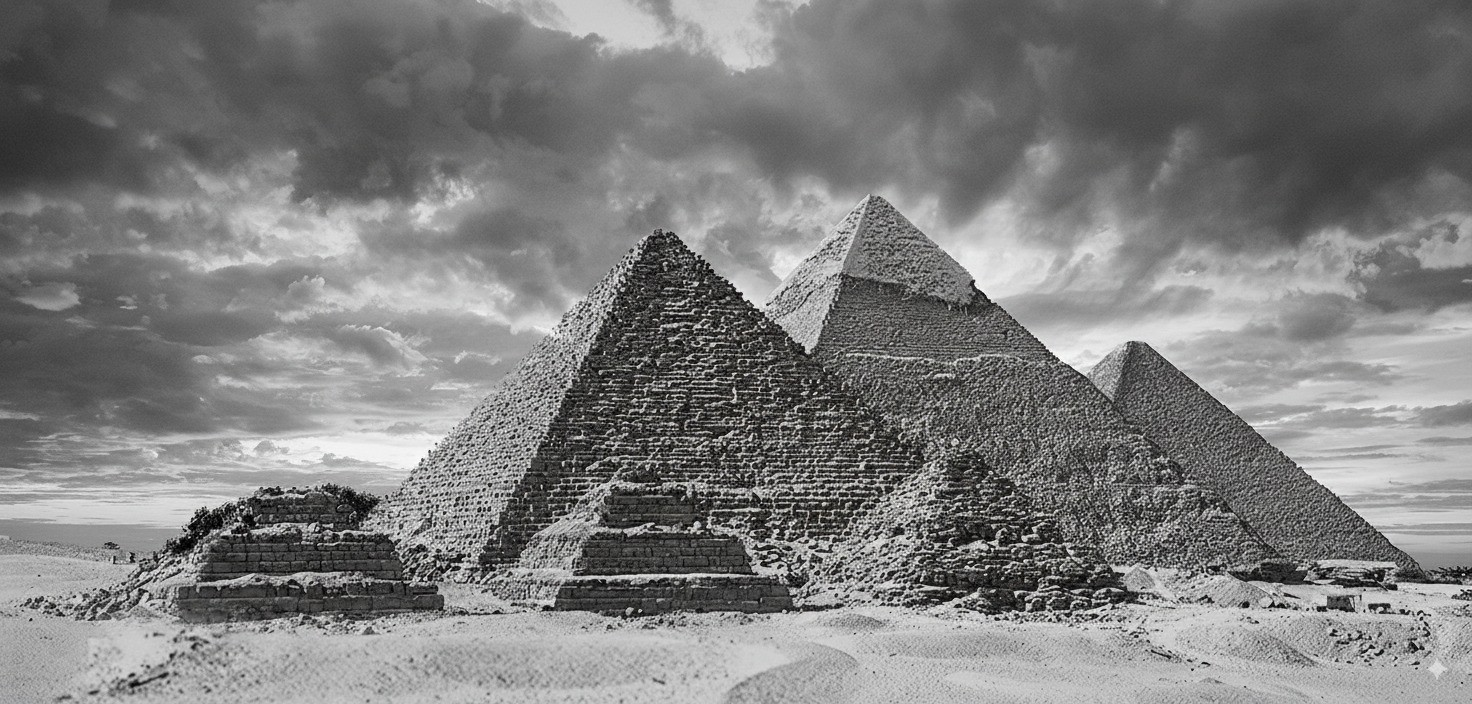
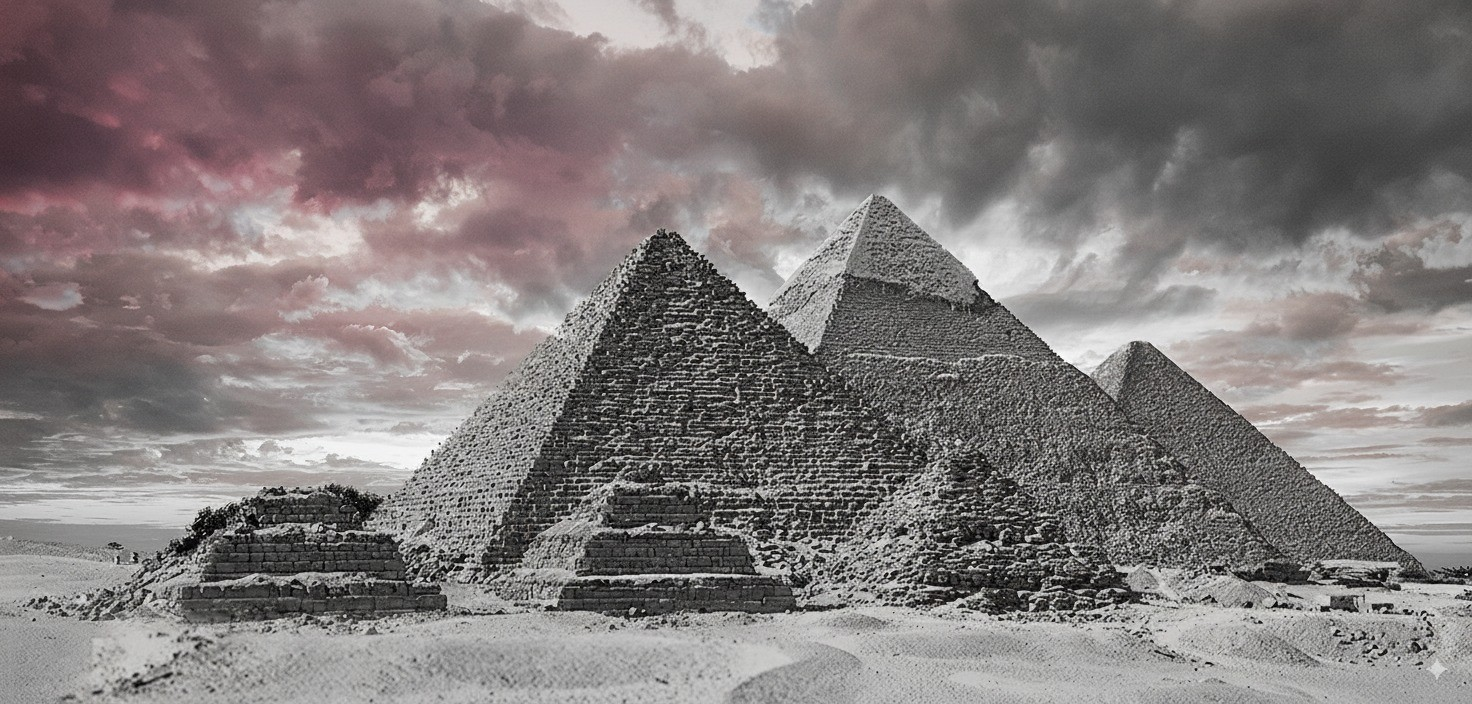
update slide photos with red color touch

diff --git a/red/index-slides.html b/red/index-slides.html
@@ -291,7 +291,7 @@
 
 								<!-- Begin intro image -->
 								<div class="intro-image-wrap">
-									<div class="intro-image cover-opacity-4 parallax-5 cc-image bg-image" style="background-image: url(assets/img/intro/slider/intro-slide-bg-2.jpg); background-position: 50% 50%;"></div>
+									<div class="intro-image cover-opacity-4 parallax-5 cc-image bg-image" style="background-image: url(assets/img/intro/slider/intro-slide-bg-22.jpg); background-position: 50% 50%;"></div>
 								</div>
 								<!-- End intro image -->
 								
@@ -321,7 +321,7 @@
 
 								<!-- Begin intro image -->
 								<div class="intro-image-wrap">
-									<div class="intro-image cover-opacity-4 parallax-5 cc-image bg-image" style="background-image: url(assets/img/intro/slider/intro-slide-bg-3.jpg); background-position: 50% 50%;"></div>
+									<div class="intro-image cover-opacity-4 parallax-5 cc-image bg-image" style="background-image: url(assets/img/intro/slider/intro-slide-bg-4.jpg); background-position: 50% 50%;"></div>
 								</div>
 								<!-- End intro image -->
 								
